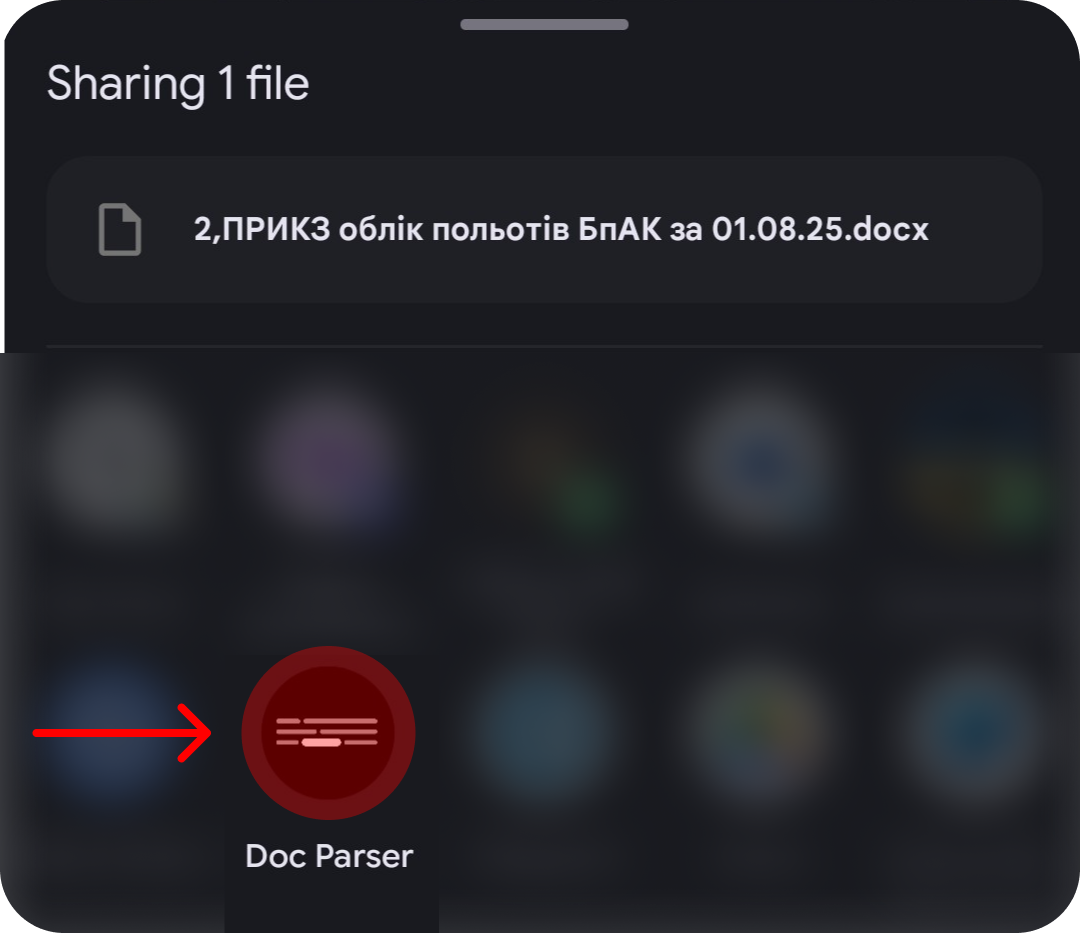
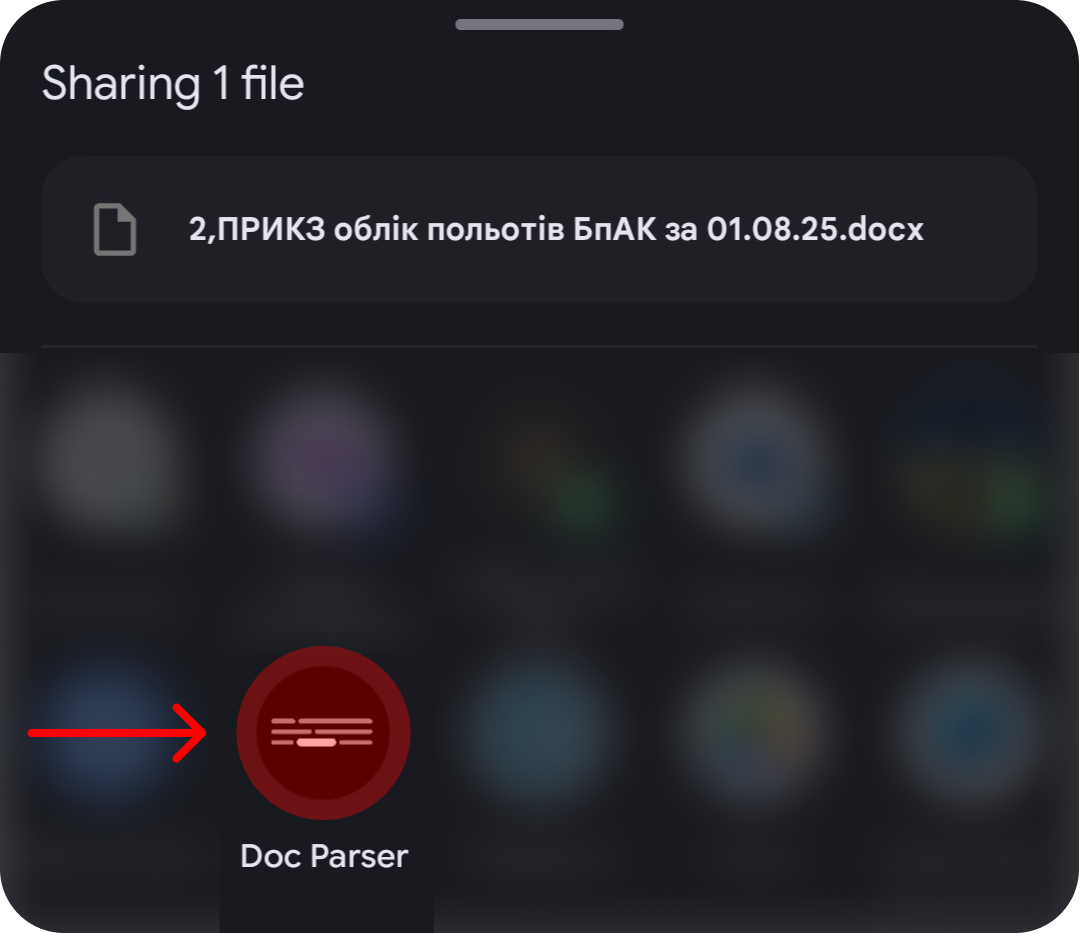
Make pictures smaller

diff --git a/index.html b/index.html
@@ -35,9 +35,9 @@
 1. Додати цю сторінку як застосунок <b>Doc Parser</b> на робочий стіл
 2. Поділитися одним або декількома DOCX-файлами з цим застосунком</pre>
 
-<img src="manual/android-1.png">
-
-<img src="manual/android-2.png">
+<img width="240" src="manual/android-1.png">
+<br>
+<img width="240" src="manual/android-2.png">
 
 <pre>Для роботи на iPhone
 1. Переконатися, що встановлено застосунок <a href="https://apps.apple.com/us/app/shortcuts/id915249334">Shortcuts</a>
